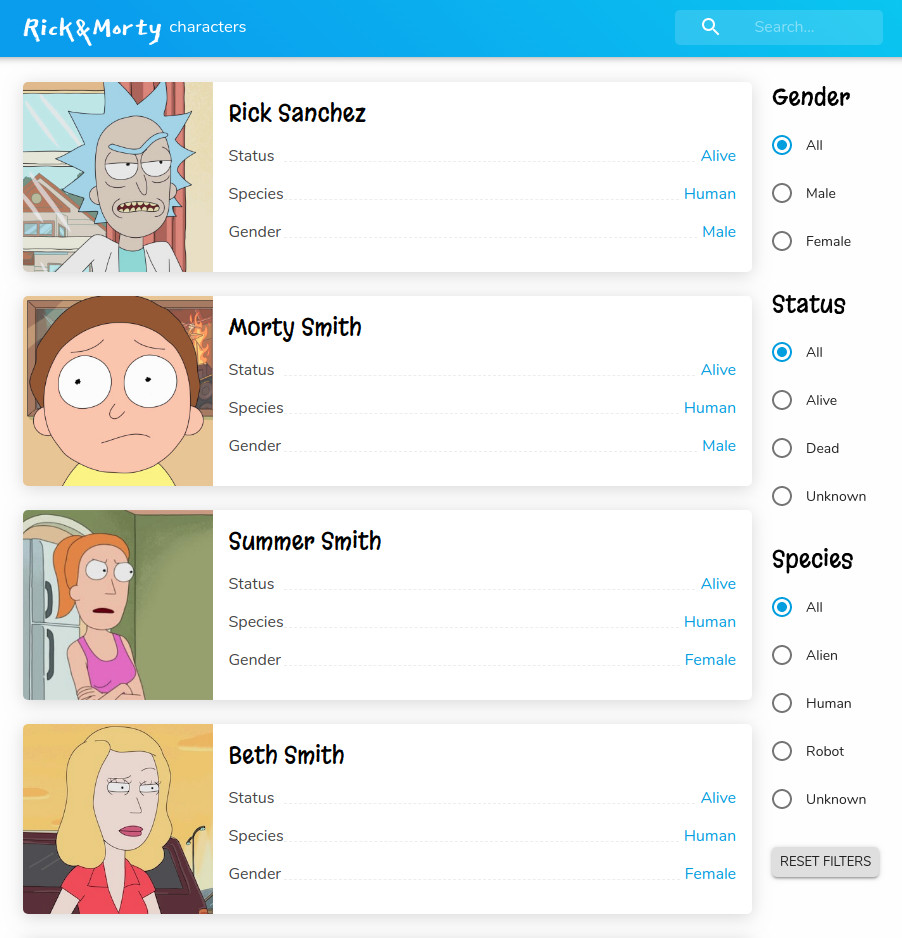
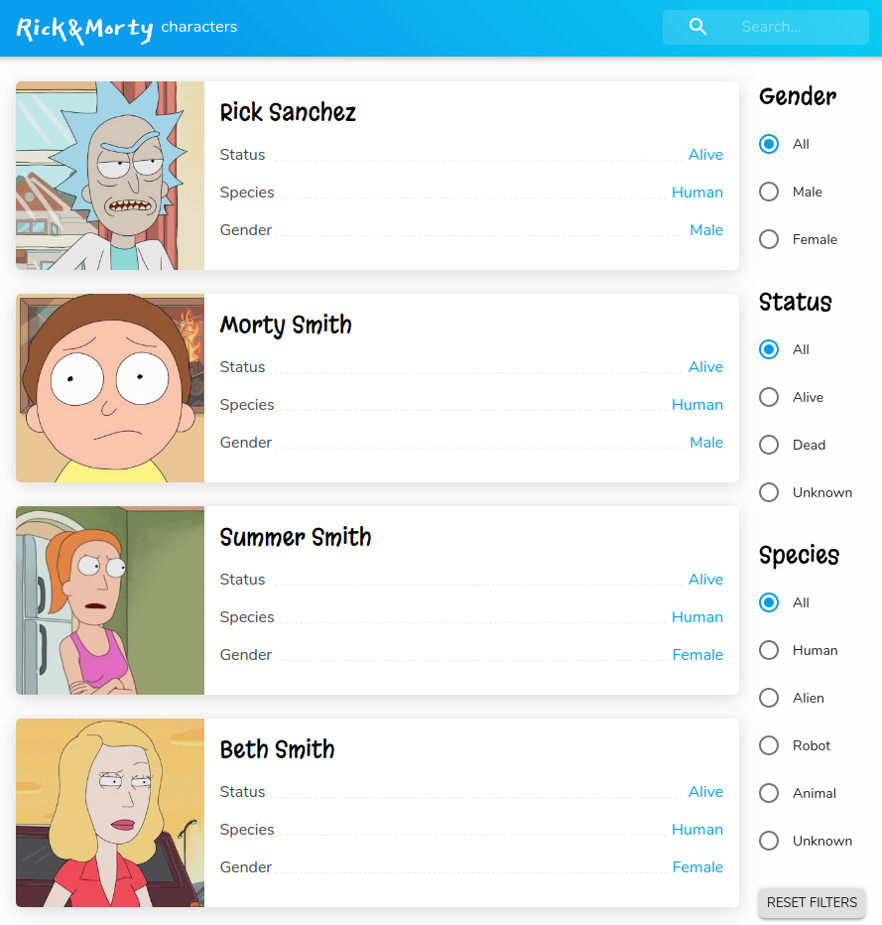
Preview changed  :panda_face:

diff --git a/src/components/pages/characters/CharactersFilters.js b/src/components/pages/characters/CharactersFilters.js
@@ -63,18 +63,6 @@ const filtersList = [
         label: "Animal"
       },
       {
-        value: "mytholog",
-        label: "Mytholog"
-      },
-      {
-        value: "disease",
-        label: "Disease"
-      },
-      {
-        value: "poopybutthole",
-        label: "Poopybuttholeg"
-      },
-      {
         value: "unknown",
         label: "Unknown"
       }
